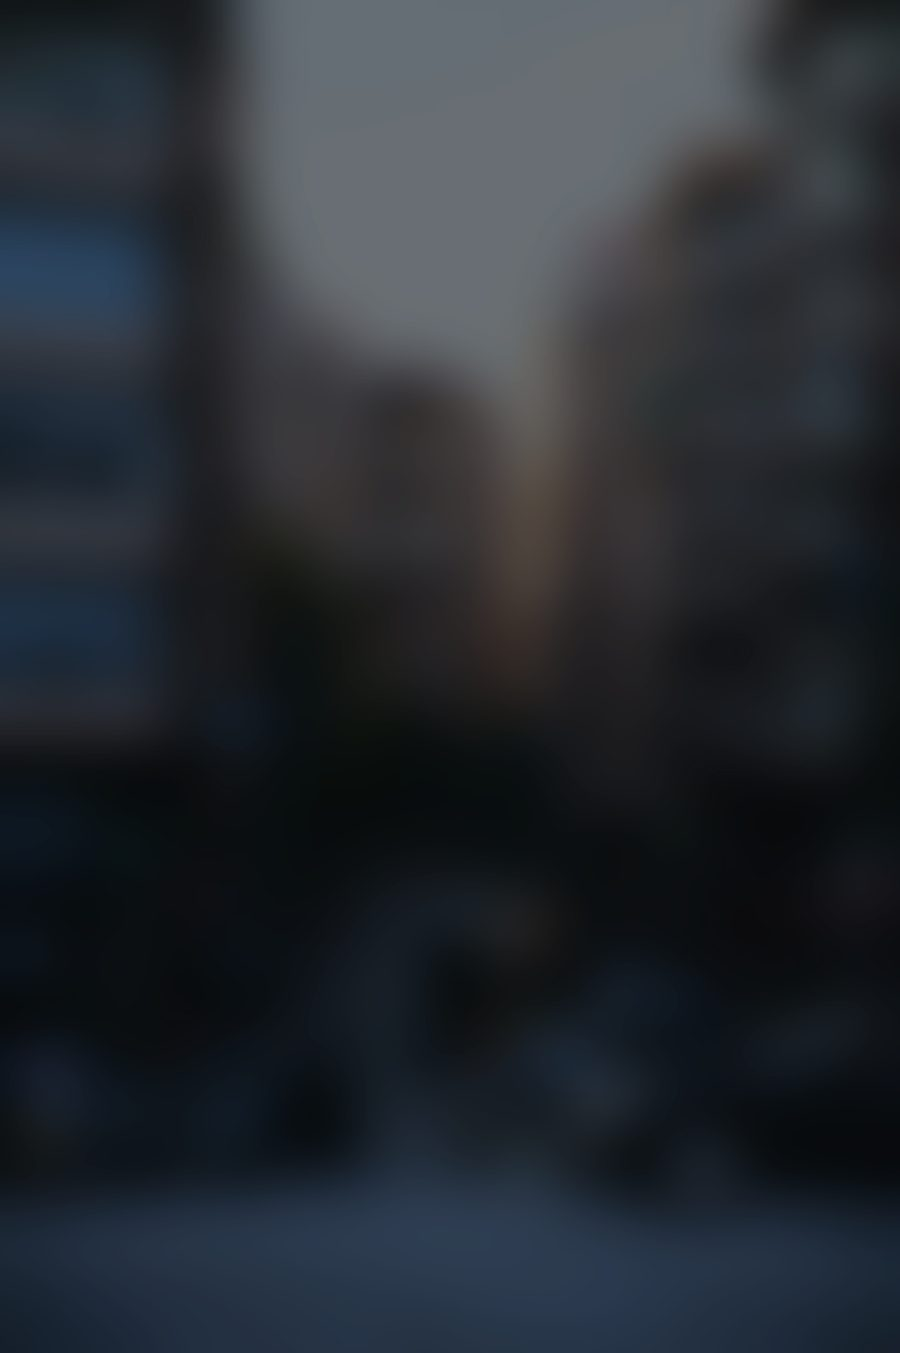
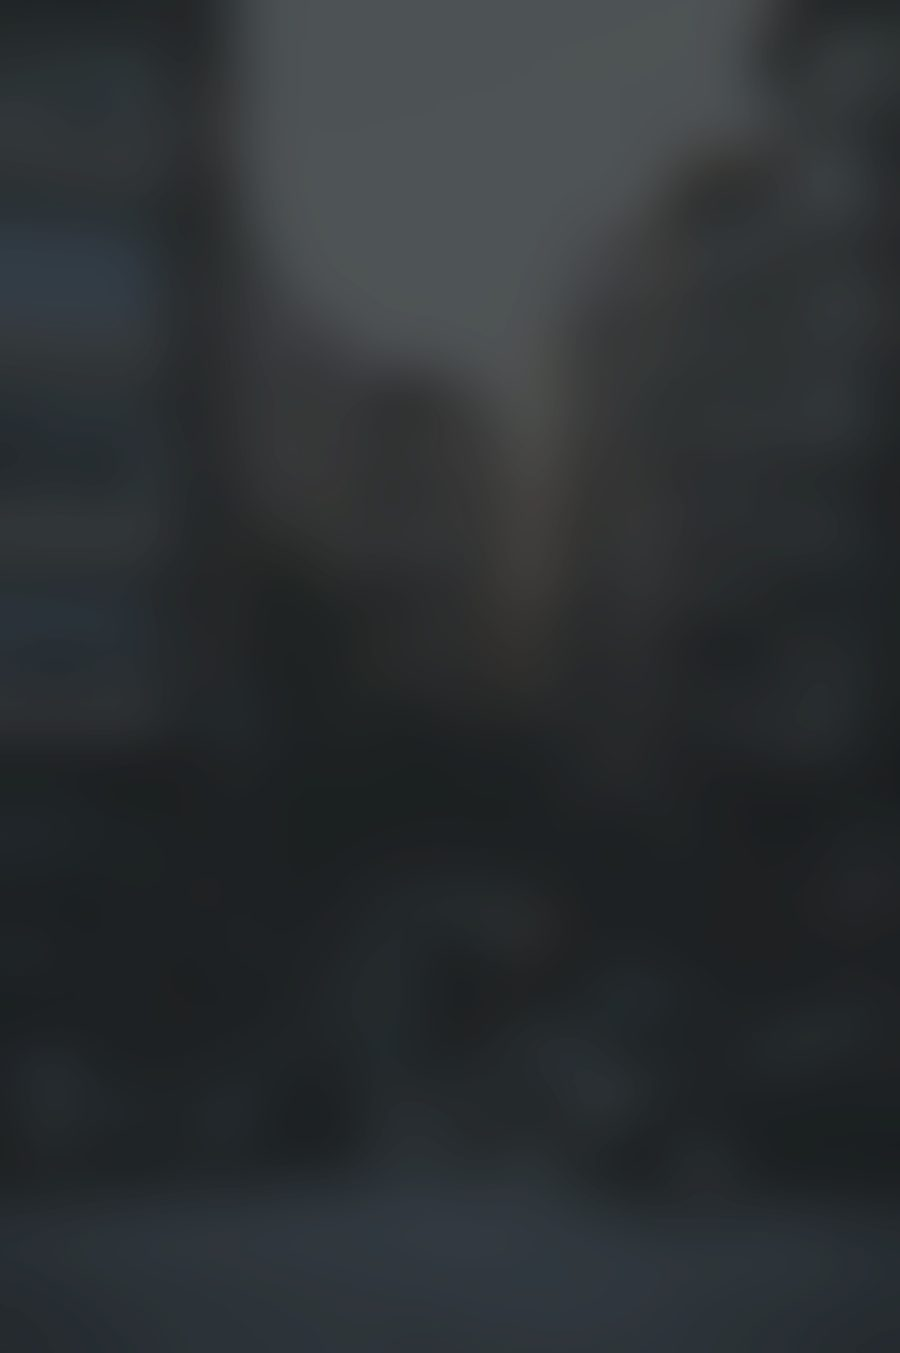
Update hero and about photos, lighten body background to match hero tone

Changed region(s): [[0.28, 0.0, 0.8089, 0.3104], [0.0, 0.1863, 0.1244, 0.2173]]

diff --git a/docs/css/style.css b/docs/css/style.css
@@ -1,7 +1,7 @@
 body {
   font-family: 'Raleway', sans-serif;
   color: #0c0c0c;
-  background-color: #ffffff;
+  background-color: #fcfbf9;
 }
 
 .layout_padding {
